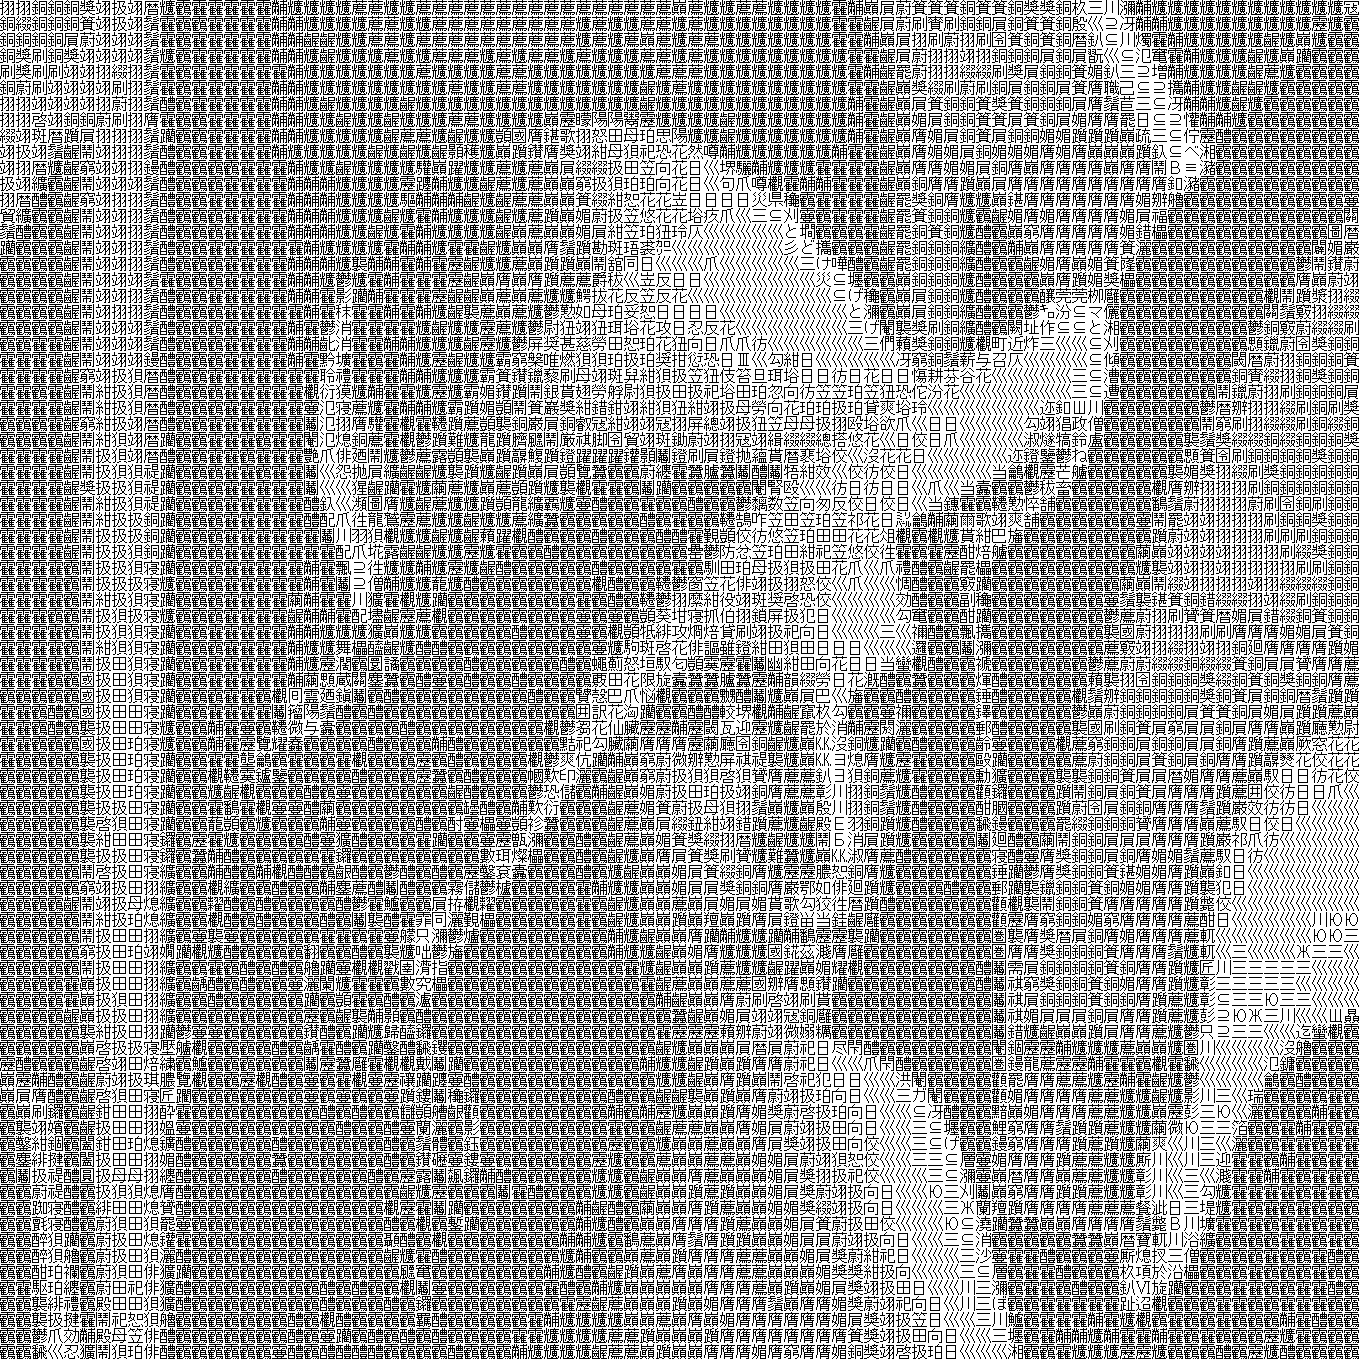
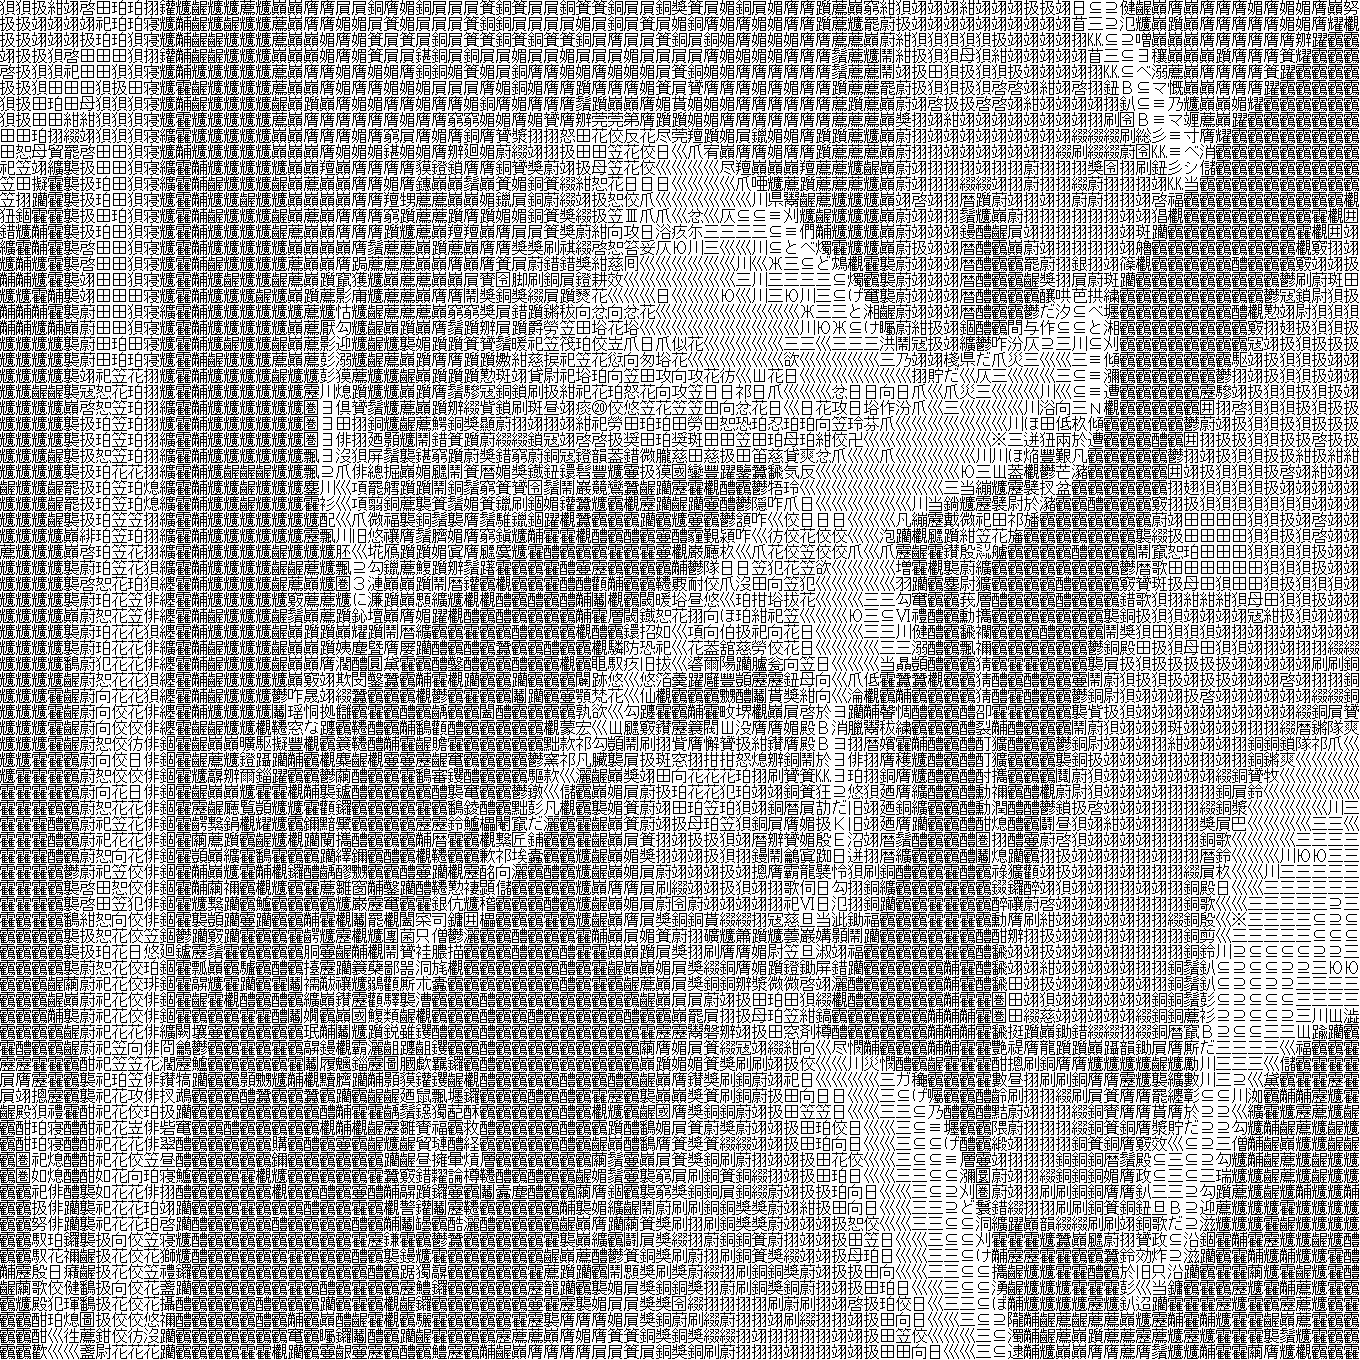
輝度調整

diff --git a/png2txt.c b/png2txt.c
@@ -31,6 +31,7 @@ static void free_image(image_t *img);
 static void image_to_text(FILE *file, code_book_t *code_book, image_t *image, int thread_num);
 static int calculate_distance(uint8_t *a, uint8_t *b);
 static void *work_fragment(void *argument);
+static void adjust_luminance(code_book_t *code_book, image_t *image);
 
 int main(int argc, char **argv) {
     char *code_book_file = NULL;
@@ -62,6 +63,7 @@ int main(int argc, char **argv) {
     read_code_book_file(code_book_file, &book);
     image_t img;
     read_png_file(image_file, &img);
+    adjust_luminance(&book, &img);
     image_to_text(stdout, &book, &img, thread_num);
     free_image(&img);
     free_code_book(&book);
@@ -297,4 +299,21 @@ static int calculate_distance(uint8_t *a, uint8_t *b) {
         distance += abs(a[i] - b[i]);
     }
     return distance;
+}
+
+static void adjust_luminance(code_book_t *code_book, image_t *image) {
+    int min = 255;
+    for (int i = 0; i < code_book->size; i++) {
+        for (int j = 0; j < CODE_SIZE; ++j) {
+            int p = code_book->code[i]->code[j];
+            if (min > p) {
+                min = p;
+            }
+        }
+    }
+    for (int y = 0; y < image->height; ++y) {
+        for (int x = 0; x < image->width; ++x) {
+            image->map[y][x] = (image->map[y][x] * (255 - min)) / 255 + min;
+        }
+    }
 }
